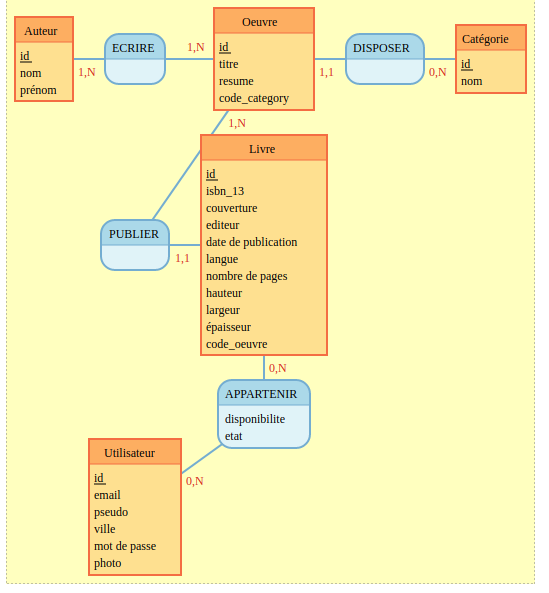
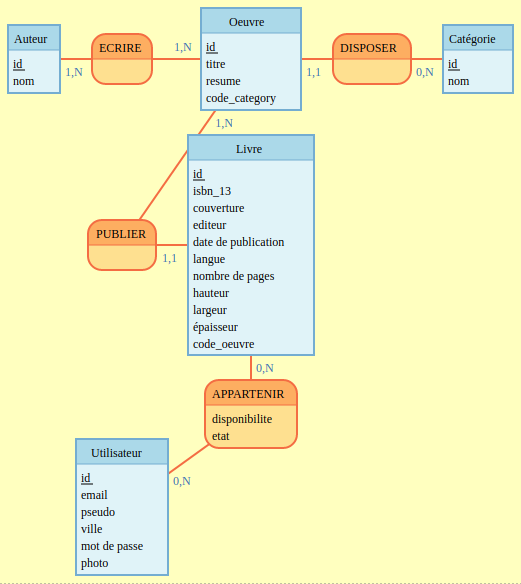
Update Readme with all info

diff --git a/README.md b/README.md
@@ -1,1 +1,46 @@
-# swapster-back
+# Swapster-back
+
+## Titre et presentation projet :
+Swapster est un site web permettant à ses utilisateurs de partager gratuitement des livres. En donnant une seconde vie à ses livres les buts sont multiples : économie, écologie, échanges humains.
+La partie Back de l'application est déployé sur Railway et la partie Front sur Vercel. Ce repository concerne seulement la partie Backend.
+
+
+### Fonctionnalités :
+- CRUD Utilisateur
+- CRUD Livres d'un utilisateur
+- Afficher les resultats d'une recherche de livre
+- Afficher le détails d'un livre
+- Afficher les derniers livres ajoutés
+
+### Structure du projet :
+- API REST :
+  - app : application complète avec
+    - controller
+    - dataMapper
+    - logs : journalisation des logs/erreurs
+    - middelware : authentification JWT
+    - router
+    - services : validation JOI
+    - utils : gestionnaire d'erreurs, documentation Swagger
+  - conception : modelisation de la base de donnée
+  - data : seeding & json de fausses données
+  - migrations : fichier création de table, revert et verify (sqitch)
+  
+
+
+### Configuration & installation:
+- En local:
+    - Installer les packages avec la commande : ``npm i``
+    - Créer fichier ``.env`` en suivant le modèle ``.env.example`` pour les variables d'environnement
+    - Créer une BDD Postgresql local en utilisant les dossiers migrations (pour création des tables et revert via sqitch) et data (pour le seeding)
+    - Lancer l'application avec la commande : ``npm run dev``
+  
+
+### Documentation
+La documentation concernant toutes les routes et fonctionnalités est disponible sur :
+https://swapster-back-production.up.railway.app/api-docs/
+
+### Auteurs : 
+Min Jung Kim (Lead-Dev) 
+
+Asmaa El Khabbach (Dev)

diff --git a/conception/mcd.md b/conception/mcd.md
@@ -1,0 +1,13 @@
+Auteur: id, nom
+ECRIRE, 1N Auteur, 1N Oeuvre
+Oeuvre: id, titre, resume, code_category
+DISPOSER, 0N Catégorie, 11 Oeuvre
+Catégorie: id, nom
+
+PUBLIER, 1N Oeuvre, 11 Livre
+Livre: id, isbn_13, couverture, editeur, date de publication, langue, nombre de pages, hauteur, largeur, épaisseur, code_oeuvre
+
+APPARTENIR, 0N Livre, 0N Utilisateur : disponibilite, etat
+
+Utilisateur: id, email, pseudo, ville, mot de passe, photo
+:

diff --git a/conception/mld.md b/conception/mld.md
@@ -1,4 +1,4 @@
-author (id, lastname, firstname)
+author (id, name)
 
 work (id, title, resume, #category_id)
 
